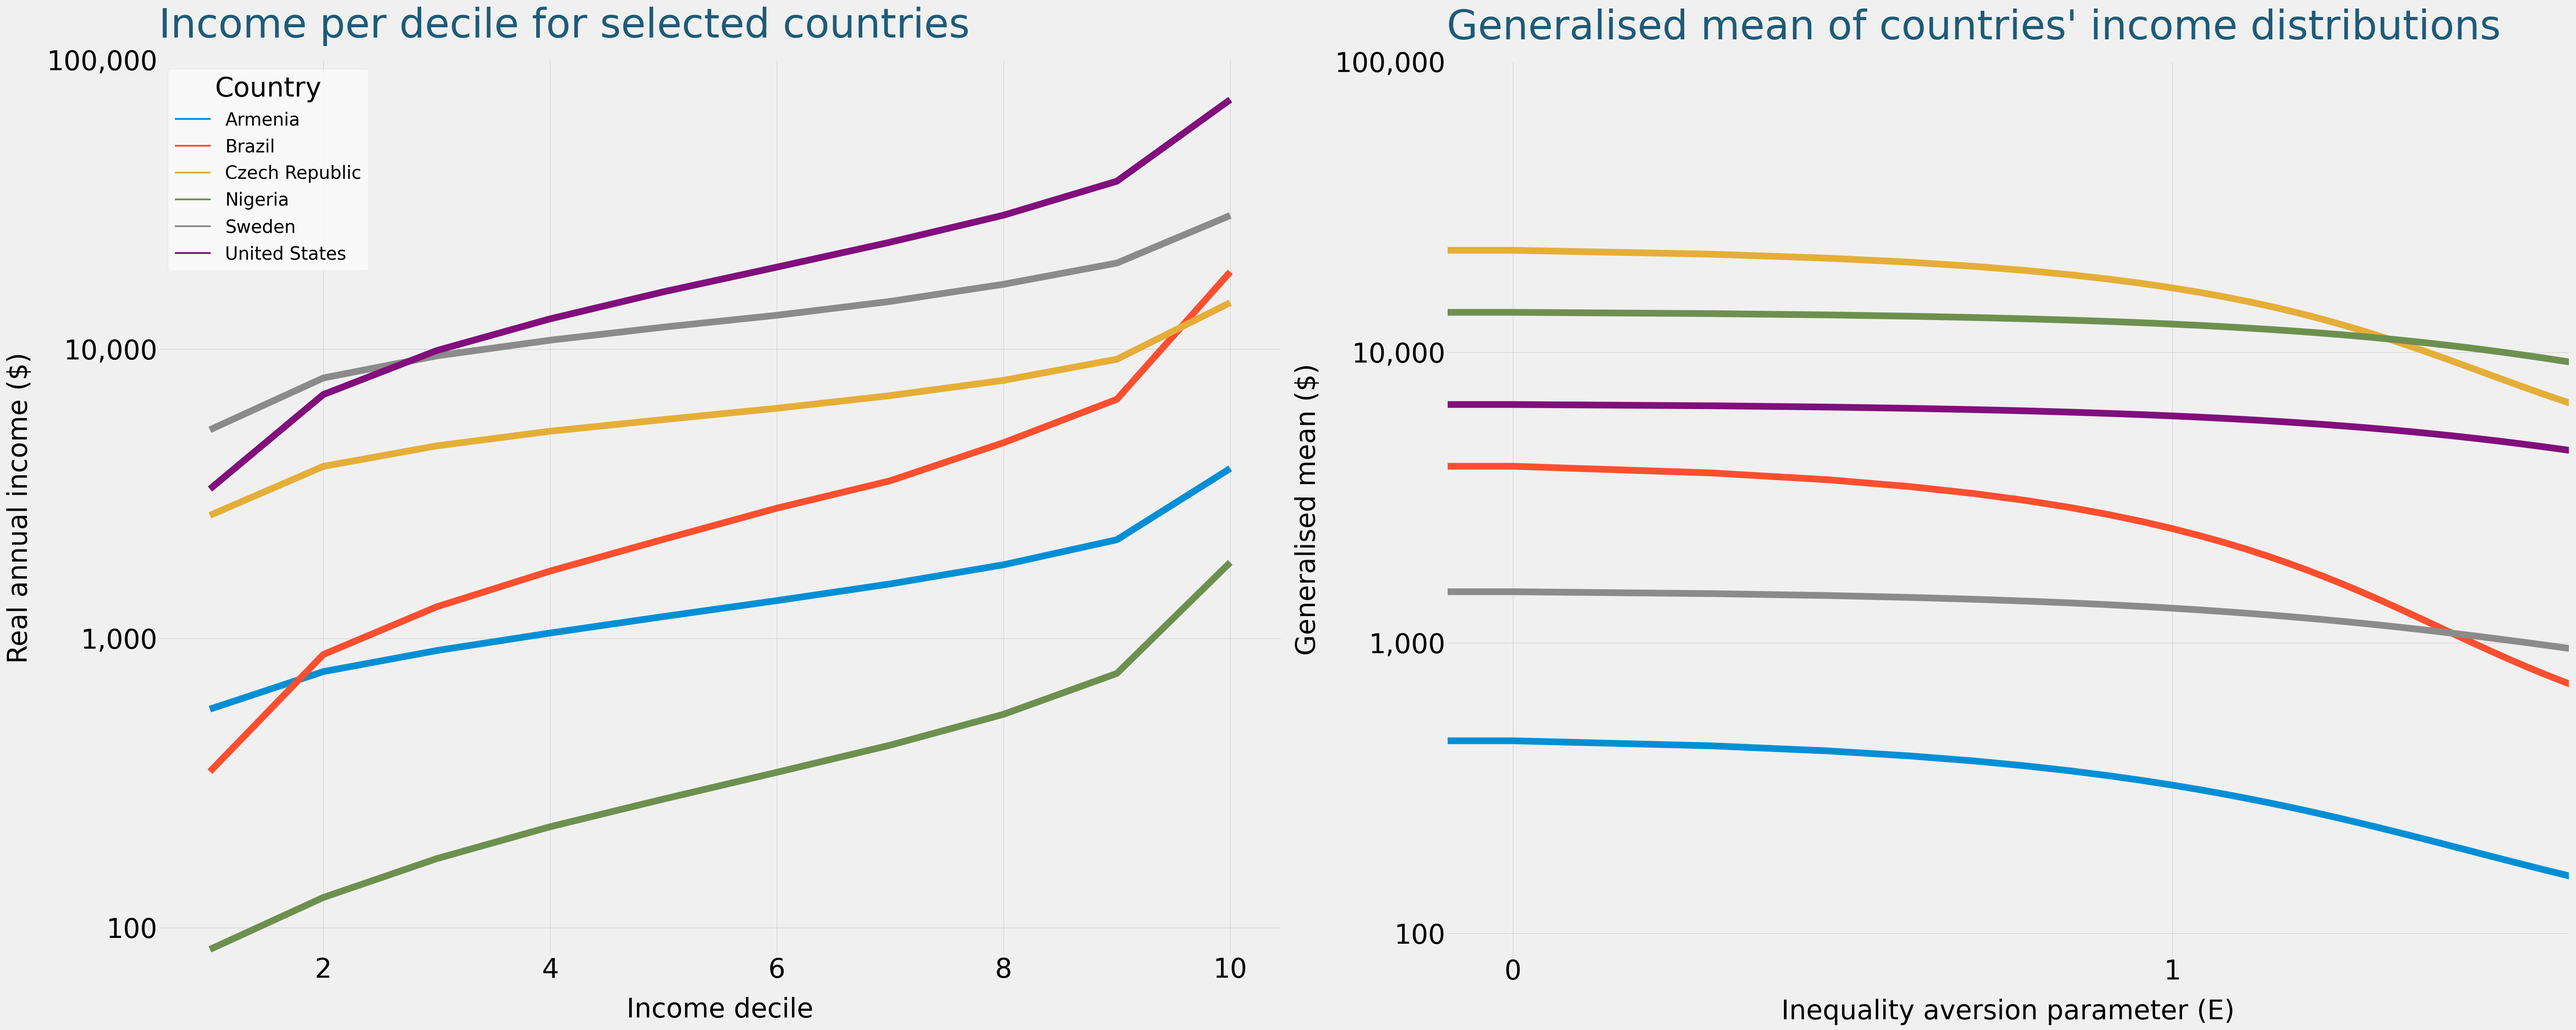
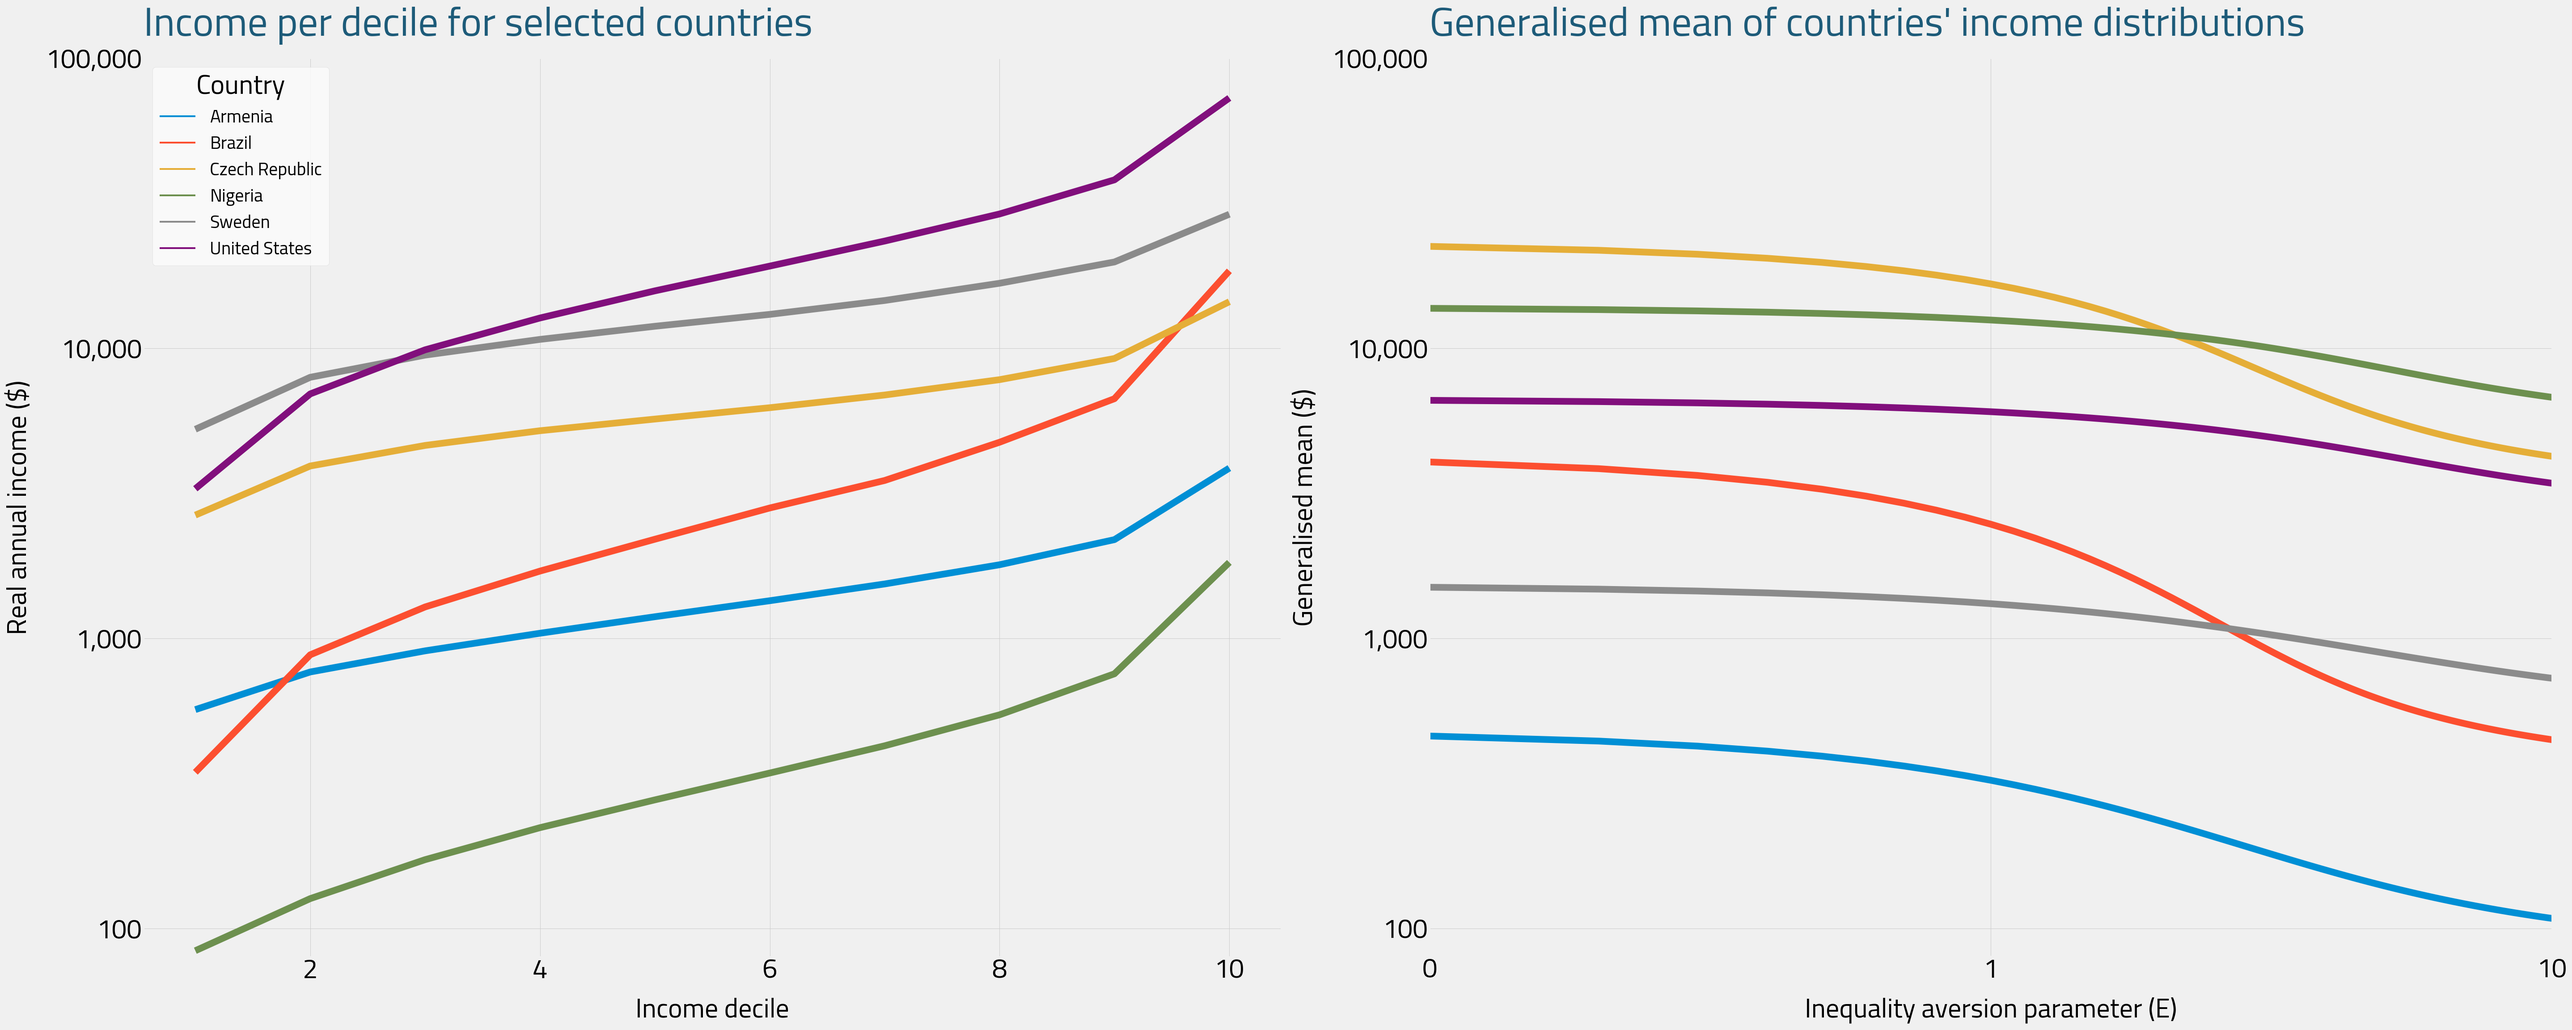
update graphics

diff --git a/code/visualising real inequalities.py b/code/visualising real inequalities.py
@@ -10,9 +10,15 @@ Created on Thu May 16 13:25:36 2024
 import numpy as np
 import pandas as pd
 import seaborn as sns
+import matplotlib as plt
 
 
-#### Generating income distributions
+## Set the font family globally
+from matplotlib import font_manager as fm, rcParams
+font_path = 'C:/WINDOWS/FONTS/TITILLIUMWEB-REGULAR.TTF'  # Update this path to the actual font path
+fm.fontManager.addfont(font_path)
+plt.rcParams['font.family'] = 'Titillium Web'
+
 
 
 #### Downloading existing income distributions
@@ -74,7 +80,7 @@ plt.xlabel('Income decile', fontsize=60, labelpad=30)
 plt.ylabel('Real annual income ($)', fontsize=60, labelpad=30)
 plt.ylim(80,100000)
 plt.title('Income per decile for selected countries', fontsize=90, pad=50, loc='left',  color = '#1D5B79')
-#plt.tight_layout()
+plt.tight_layout()
 
 plt.savefig('viz/real income distributions.png')  # Save the figure
 # Show the plot
